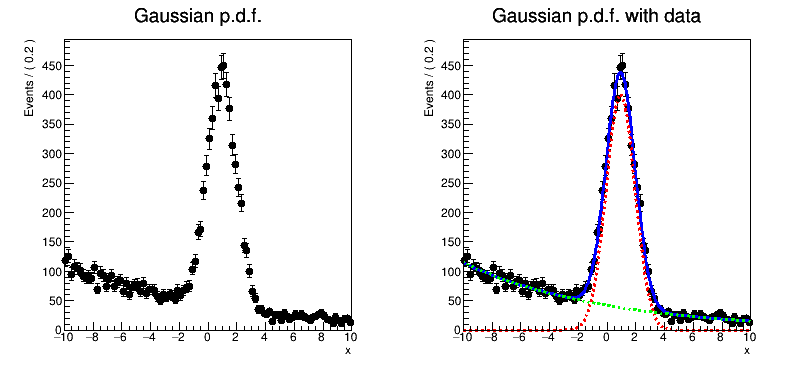
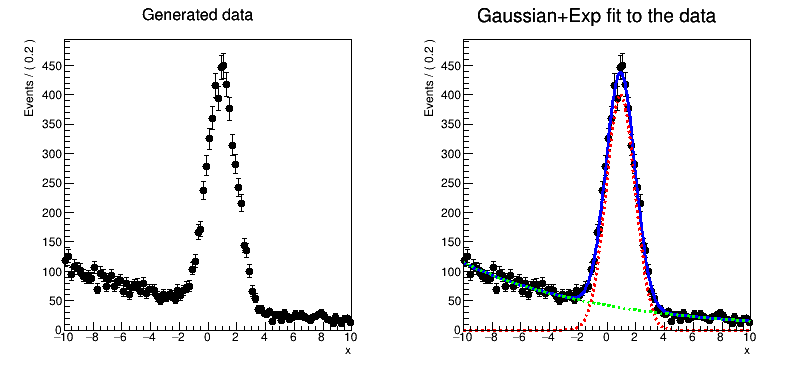
add pyroot example

Changed region(s): [[0.6015, 0.0, 0.9023, 0.0889], [0.1504, 0.0296, 0.3308, 0.0593]]

diff --git a/addPdf.py b/addPdf.py
@@ -15,12 +15,12 @@ nbkg = r.RooRealVar("nbkg","background events",20000,0,80000)
 
 model = r.RooAddPdf("model","Gauss+shape",r.RooArgList(gauss,shape),r.RooArgList(nsig,nbkg))
 
-xframe = x.frame(r.RooFit.Title("Gaussian p.d.f."))
+xframe = x.frame(r.RooFit.Title("Generated data"))
 
 
 data = model.generate(r.RooArgSet(x),10000)
 
-xframe2 = x.frame(r.RooFit.Title("Gaussian p.d.f. with data"))
+xframe2 = x.frame(r.RooFit.Title("Gaussian+Exp fit to the data"))
 data.plotOn(xframe)
 
 
